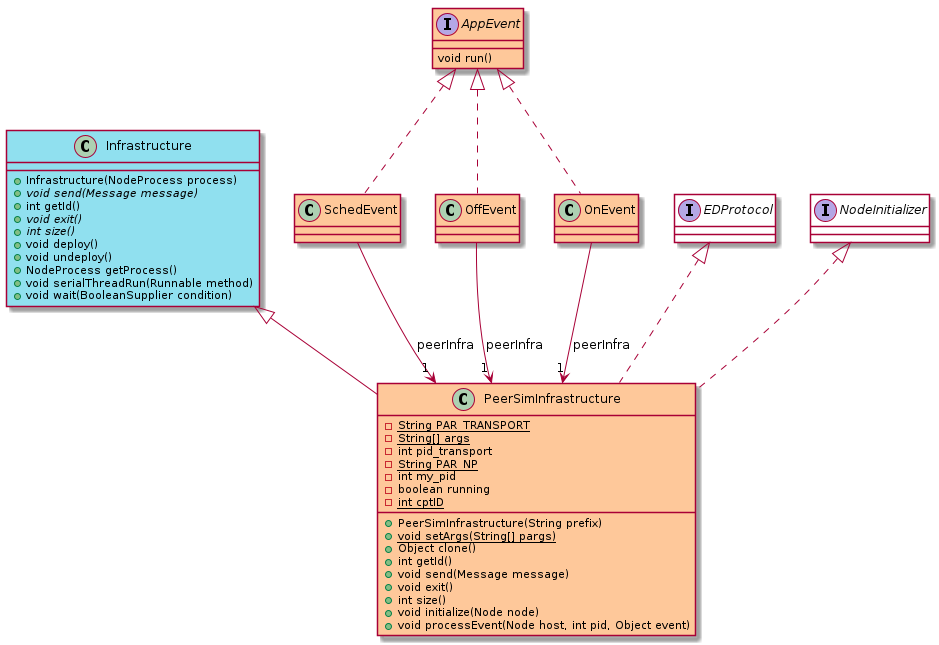
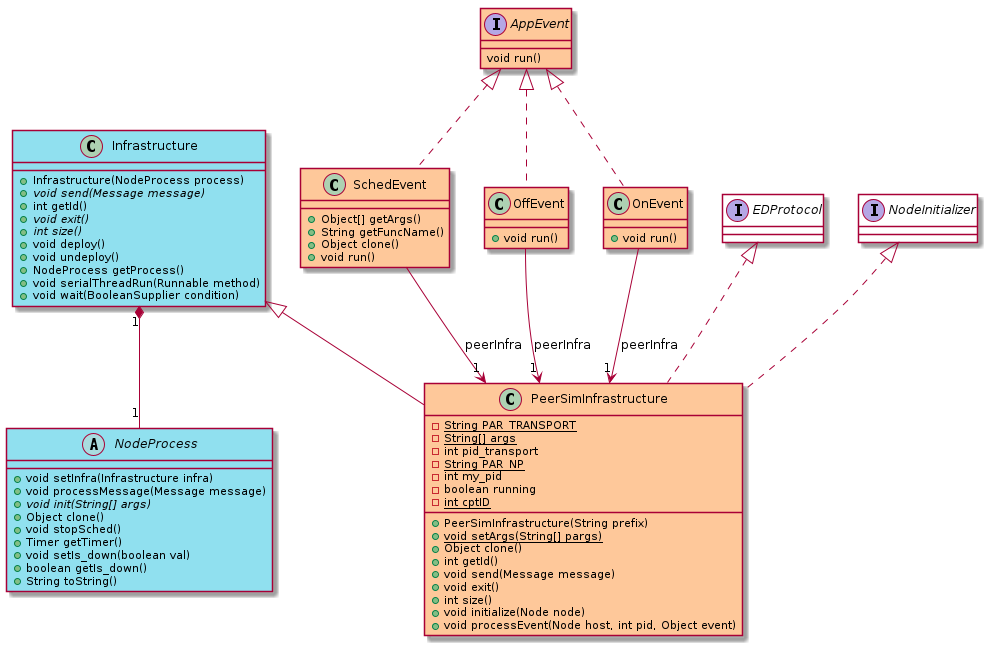
partie 2 et 3

diff --git a/Rapport_carnet/Rapport_PSAR_nouveauplan.tex b/Rapport_carnet/Rapport_PSAR_nouveauplan.tex
@@ -250,11 +250,12 @@ public class RingExample extends NodeProcess {
                 
 				\newpage
 				\section{Présentation de l'API générique}
-					\subsection{Schema UML des classes génériques}
-					\vspace{7mm}
+				L'idée pricipale du projet est de produire une API générique permettant d'abstraire le support d'exécution au niveau du code métier, c'est-à-dire produire une couche logicielle afin de pouvoir exécuter de façon transparente le même code sur un simulateur (\verb|PeerSim|) et sur une infrastructure réelle (\verb|MPI|).					
+				\subsection{Schema UML des classes génériques}
+					\vspace{2mm}
 					\hspace*{-1cm} \includegraphics[width=22cm]{uml/generique.png}
 					
-					\vspace{15mm}
+					\vspace{8mm}
 					Nous avons commencé par définir une classe abstraite \verb|NodeProcess| qui représente un processus à exécuter et une autre classe abstraite \verb|Infrastructure| qui contient toutes les méthodes que nos deux API (\verb|MPI| et \verb|PeerSim|) devront implanter, cette classe abstraite permet également d'abstraire l'infrastructure sur laquelle \verb|NodeProcess| est exécutée.
 					\newline
 					\newline
@@ -315,12 +316,16 @@ public class RingExample extends NodeProcess {
 		
 
 				\section{Présentation des deux Adapters}
+				
 				\subsection{Adapter Peersim}
+				L'implantation de notre API du côté de \verb|PeerSim| consiste principalement à effectuer un Adapter avec l'API déjà existante de \verb|PeerSim|. Il fallait donc comprendre le fonctionnement des classes de \verb|PeerSim| nécessaires pour faire le lien entre les deux API,  
+				et également adapter une certaines de nos classes pour \verb|PeerSim|, par exemple rendre \verb|NodeProcess| clonable. 
 					\subsubsection{Schema UML Peersim et explications}
-					\vspace{5mm}
+					\vspace{1.2mm}
 					\hspace*{-1.3cm} \includegraphics[width=18cm]{uml/peersim1.png}
-					\vspace{5mm}
+					\vspace{1.5mm}
 					\hspace*{-3.2cm} \includegraphics[width=21cm]{uml/peersim2.png}
+
 				\subsubsection{Les problèmes à implanter cet adapter : multithreading et wait}
 				\subsubsection{Scenario en Peersim}
 				\hspace*{5cm} \includegraphics[width=60mm]{uml/scenPuml.png}
@@ -340,6 +345,7 @@ public class RingExample extends NodeProcess {
 		
 			%TODO
 			\subsection{Adapter MPI}
+			
 				\subsubsection{Schema UML MPI et explications}
 				\vspace{5mm}
 				\hspace*{-2.3cm} \includegraphics[width=20cm]{uml/mpi1.png}
@@ -348,7 +354,7 @@ public class RingExample extends NodeProcess {
 				\hspace*{-2.3cm} \includegraphics[width=20cm]{uml/mpi2.png}
 				\subsubsection{Les problèmes à implanter cet adapter : passer au modèle événementiel}
 				\subsubsection{Scenario en MPI}
-				\hspace*{5cm} \includegraphics[width=80mm]{uml/scenMpiuml.png}
+				\hspace*{4cm} \includegraphics[width=80mm]{uml/scenMPIuml.png}
 				\newline
 				Pour l'implémentation sous MPI nous avons utiliser la class \verb|Timer| pour planifier un évenements des tache sur un noeud donner.
 				\newline
